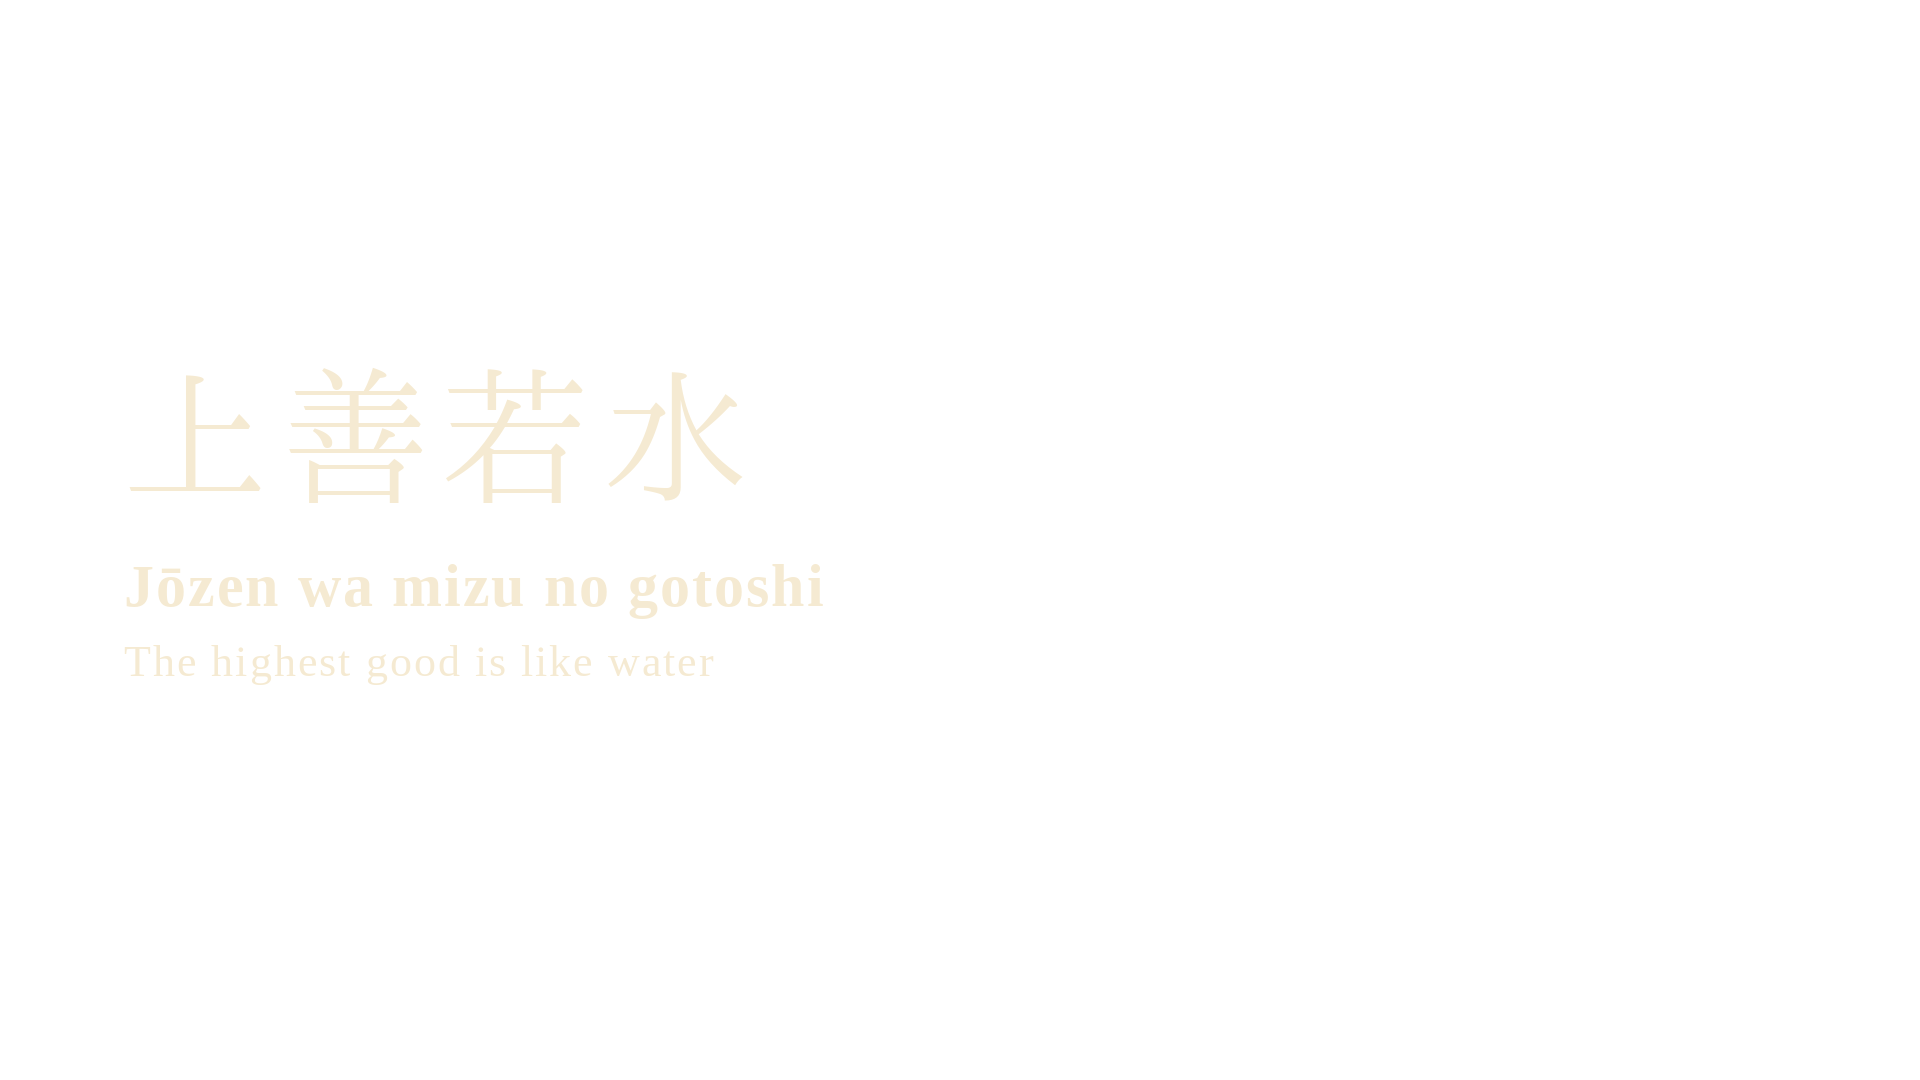
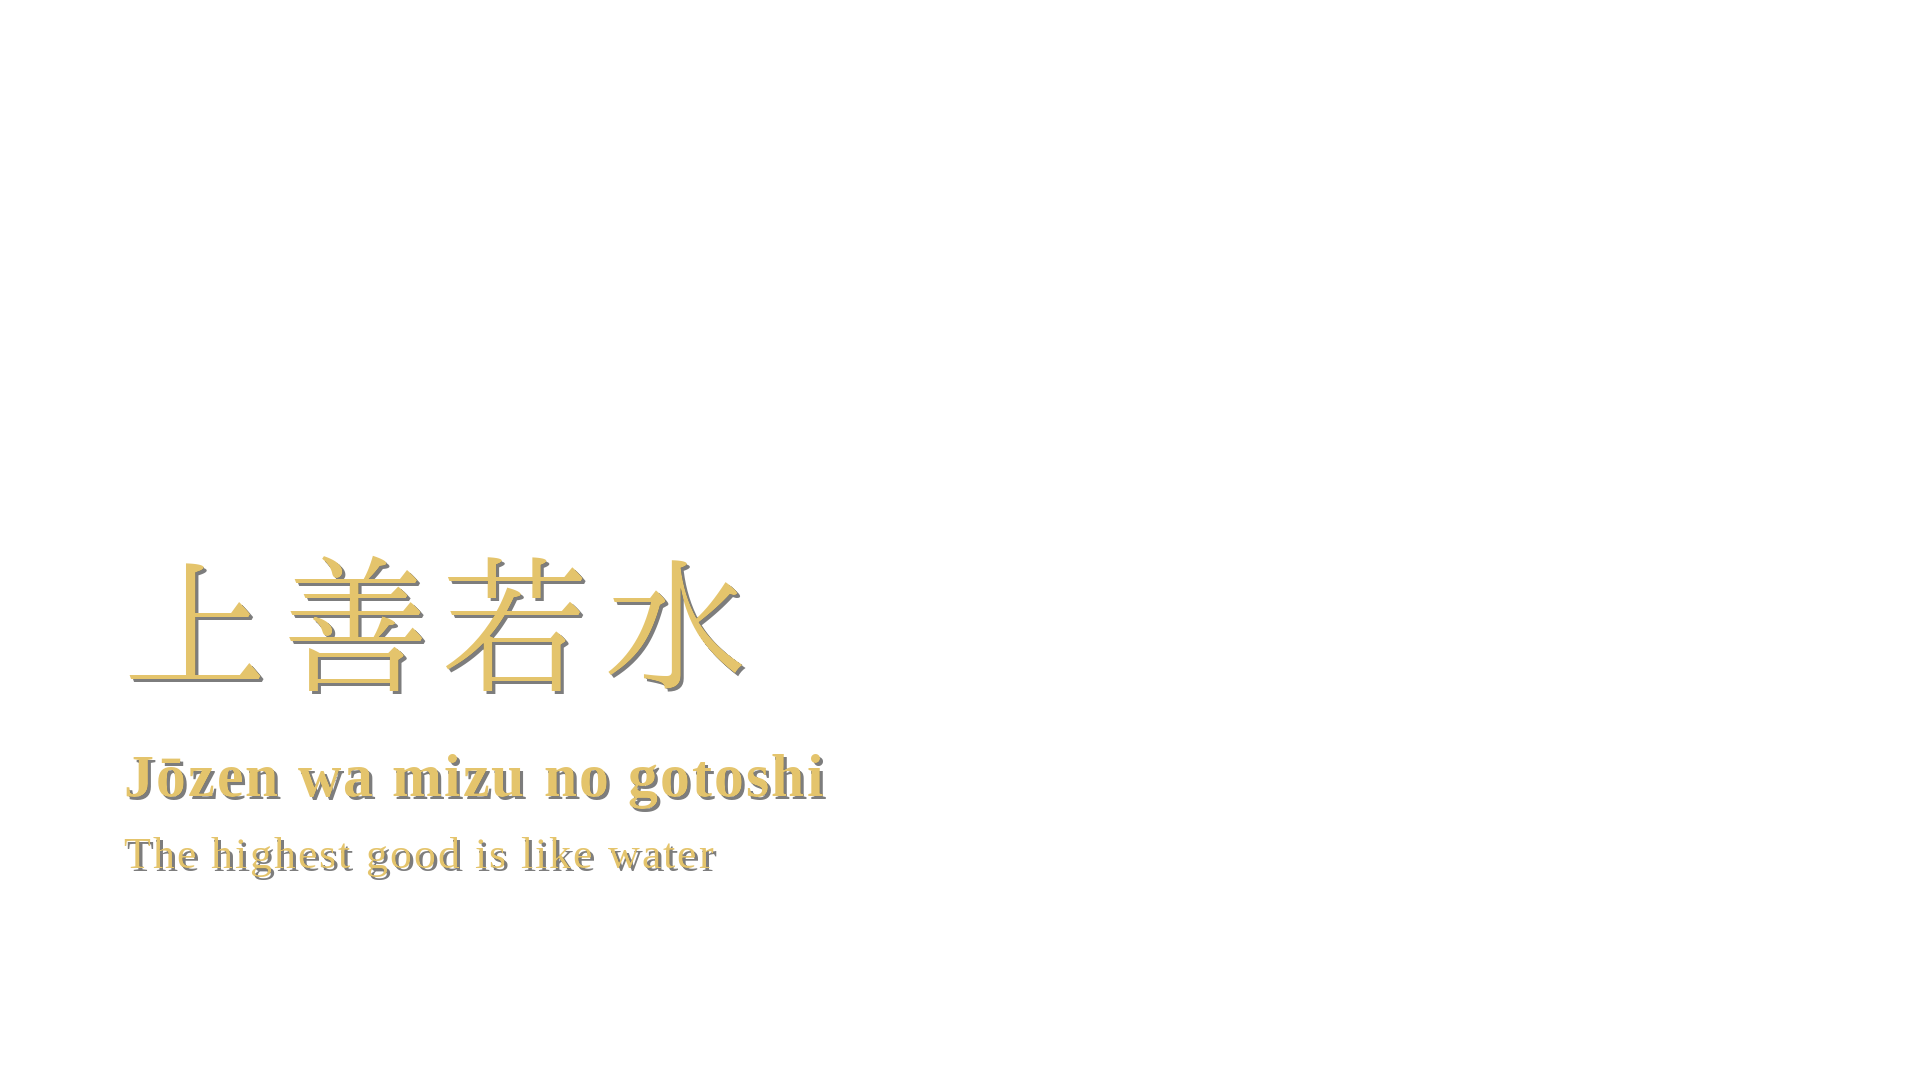
MIZU: wisdom overlay v2 — gold #E4C46C, lowered, soft shadow for bright bg
Claude-Session: https://claude.ai/code/session_014rUxCAgr4C7iAmMHbP4fFt

diff --git a/stillwave/assets/mizu-wisdom-overlay.py b/stillwave/assets/mizu-wisdom-overlay.py
@@ -16,22 +16,24 @@ HERE = Path(__file__).parent
 OUT = HERE / "mizu-wisdom-overlay.png"
 
 W, H = 1920, 1080
-CREAM = (245, 234, 210, 255)
+GOLD = (228, 196, 108, 255)          # #E4C46C — kintsugi / channel gold
+SHADOW = (0, 0, 0, 130)              # soft shadow for legibility over bright morning bg
 
 KANJI_FONT = "/usr/share/fonts/opentype/ipafont-mincho/ipam.ttf"
 SERIF_BOLD = "/usr/share/fonts/truetype/liberation/LiberationSerif-Bold.ttf"
 SERIF = "/usr/share/fonts/truetype/liberation/LiberationSerif-Regular.ttf"
 
-X = 120                       # left column start (over the calm left third)
-KANJI = ("上善若水", 150, 360)
-ROMAJI = ("Jōzen wa mizu no gotoshi", 60, 552)
-GLOSS = ("The highest good is like water", 44, 636)
+X = 120                       # left column start
+KANJI = ("上善若水", 150, 548)        # lowered from 360
+ROMAJI = ("Jōzen wa mizu no gotoshi", 60, 742)
+GLOSS = ("The highest good is like water", 44, 828)
 
 
 def track(d, xy, text, font, spacing=2):
     x, y = xy
     for ch in text:
-        d.text((x, y), ch, font=font, fill=CREAM)
+        d.text((x + 3, y + 3), ch, font=font, fill=SHADOW)
+        d.text((x, y), ch, font=font, fill=GOLD)
         x += d.textlength(ch, font=font) + spacing
 
 
